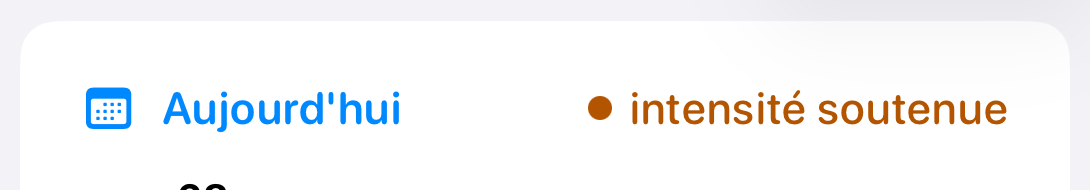
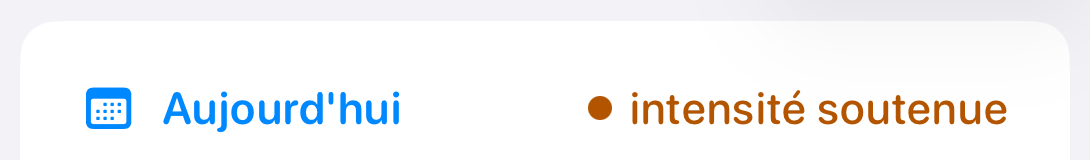
Nouveautés du cycle 3 (avant / après) et recette
Claude-Session: https://claude.ai/code/session_01EFvPKjPeTBs4MFfCE2jzQT

Changed region(s): [[0.5303, 0.4688, 0.9358, 0.7812], [0.0624, 0.4375, 0.3743, 0.8125], [0.156, 0.9688, 0.2183, 1.0]]

diff --git a/Design/Nouveautes/index.html b/Design/Nouveautes/index.html
@@ -27,6 +27,7 @@ p { margin: 0; }
 .where { color: var(--dim); font-size: 15px; }
 .pair { display: grid; grid-template-columns: 1fr 1fr; gap: 16px; }
 @media (max-width: 560px) { .pair { grid-template-columns: 1fr; } }
+.pair.single { grid-template-columns: minmax(0, 360px); }
 figure { margin: 0; display: grid; gap: 8px; min-width: 0; }
 figcaption { font-size: 13px; font-weight: 600; letter-spacing: .04em; text-transform: uppercase; color: var(--before); }
 .after figcaption { color: var(--after); }
@@ -51,6 +52,138 @@ textarea { width: 100%; box-sizing: border-box; min-height: 44px; resize: vertic
     <p class="lead">Ce qui change à l'écran, version après version : un extrait avant, un extrait après. Dis pour chaque changement s'il te va ; ton avis est enregistré et je le lis.</p>
     <p class="status" id="status" aria-live="polite">Chargement de tes avis…</p>
   </header>
+
+  <section class="version" aria-labelledby="v-2026-11-01c">
+    <div style="display:grid;gap:4px">
+      <h2 id="v-2026-11-01c">Cycle 3 : pendant et après l'effort</h2>
+      <p>Les écrans de série, de repos et de fin de séance, et tes 7 « À revoir » corrigés.</p>
+    </div>
+      <article class="change">
+        <header><p class="where">Pendant la série</p><h3>Le tunnel : un anneau de 10 par dizaine, la cible entière visible ; le nombre et « sur 23 » en grand ; « Série 2 sur 3 ». Plus de chronomètre ni de rangée des séries.</h3></header>
+        <div class="pair single">
+          <figure class="after"><figcaption>Nouveau</figcaption><img src="2026-11-01c/18-serie-apres.png" alt="Pendant la série : Le tunnel : un anneau de 10 par dizaine, la cible entière visible ; le nombre et « sur 23 » en grand ; « Série 2 sur 3 ». Plus de chronomètre ni de rangée des séries." loading="lazy"></figure>
+        </div>
+        <div class="avis" data-id="2026-11-01c-18-serie">
+          <div class="choices" role="group" aria-label="Ton avis">
+            <button type="button" class="ok" aria-pressed="false">Ça me va</button>
+            <button type="button" class="ko" aria-pressed="false">À revoir</button>
+          </div>
+          <label class="note">Ton commentaire (facultatif)
+            <textarea rows="2" id="note-2026-11-01c-18-serie"></textarea>
+          </label>
+        </div>
+      </article>
+      <article class="change">
+        <header><p class="where">Pendant le repos</p><h3>Un compte à rebours : les segments s'éteignent, « Prêt » en vert à zéro ; la série suivante et sa cible en grand.</h3></header>
+        <div class="pair single">
+          <figure class="after"><figcaption>Nouveau</figcaption><img src="2026-11-01c/19-repos-apres.png" alt="Pendant le repos : Un compte à rebours : les segments s'éteignent, « Prêt » en vert à zéro ; la série suivante et sa cible en grand." loading="lazy"></figure>
+        </div>
+        <div class="avis" data-id="2026-11-01c-19-repos">
+          <div class="choices" role="group" aria-label="Ton avis">
+            <button type="button" class="ok" aria-pressed="false">Ça me va</button>
+            <button type="button" class="ko" aria-pressed="false">À revoir</button>
+          </div>
+          <label class="note">Ton commentaire (facultatif)
+            <textarea rows="2" id="note-2026-11-01c-19-repos"></textarea>
+          </label>
+        </div>
+      </article>
+      <article class="change">
+        <header><p class="where">Fin de séance</p><h3>Trois blocs : la cible, la suite, le coach (seulement quand une mesure le justifie) ; le reste dans « Détail de la séance » ; « Terminé ».</h3></header>
+        <div class="pair single">
+          <figure class="after"><figcaption>Nouveau</figcaption><img src="2026-11-01c/20-fin-apres.png" alt="Fin de séance : Trois blocs : la cible, la suite, le coach (seulement quand une mesure le justifie) ; le reste dans « Détail de la séance » ; « Terminé »." loading="lazy"></figure>
+        </div>
+        <div class="avis" data-id="2026-11-01c-20-fin">
+          <div class="choices" role="group" aria-label="Ton avis">
+            <button type="button" class="ok" aria-pressed="false">Ça me va</button>
+            <button type="button" class="ko" aria-pressed="false">À revoir</button>
+          </div>
+          <label class="note">Ton commentaire (facultatif)
+            <textarea rows="2" id="note-2026-11-01c-20-fin"></textarea>
+          </label>
+        </div>
+      </article>
+      <article class="change">
+        <header><p class="where">Coaching · Aujourd'hui</p><h3>« intensité soutenue » devient « effort normal », avec une petite jauge à 3 crans ; plus de puce.</h3></header>
+        <div class="pair">
+          <figure><figcaption>Avant</figcaption><img src="2026-11-01c/13-effort-avant.png" alt="Avant : « intensité soutenue » devient « effort normal », avec une petite jauge à 3 crans ; plus de puce." loading="lazy"></figure>
+          <figure class="after"><figcaption>Après</figcaption><img src="2026-11-01c/13-effort-apres.png" alt="Après : « intensité soutenue » devient « effort normal », avec une petite jauge à 3 crans ; plus de puce." loading="lazy"></figure>
+        </div>
+        <div class="avis" data-id="2026-11-01c-13-effort">
+          <div class="choices" role="group" aria-label="Ton avis">
+            <button type="button" class="ok" aria-pressed="false">Ça me va</button>
+            <button type="button" class="ko" aria-pressed="false">À revoir</button>
+          </div>
+          <label class="note">Ton commentaire (facultatif)
+            <textarea rows="2" id="note-2026-11-01c-13-effort"></textarea>
+          </label>
+        </div>
+      </article>
+      <article class="change">
+        <header><p class="where">Coaching · jour de test</p><h3>Plus de pictogrammes ; ce qu'il faut faire en une phrase ; le chiffre à battre en grand ; « En savoir plus » explique le test.</h3></header>
+        <div class="pair">
+          <figure><figcaption>Avant</figcaption><img src="2026-11-01c/14-jour-de-test-avant.png" alt="Avant : Plus de pictogrammes ; ce qu'il faut faire en une phrase ; le chiffre à battre en grand ; « En savoir plus » explique le test." loading="lazy"></figure>
+          <figure class="after"><figcaption>Après</figcaption><img src="2026-11-01c/14-jour-de-test-apres.png" alt="Après : Plus de pictogrammes ; ce qu'il faut faire en une phrase ; le chiffre à battre en grand ; « En savoir plus » explique le test." loading="lazy"></figure>
+        </div>
+        <div class="avis" data-id="2026-11-01c-14-jour-de-test">
+          <div class="choices" role="group" aria-label="Ton avis">
+            <button type="button" class="ok" aria-pressed="false">Ça me va</button>
+            <button type="button" class="ko" aria-pressed="false">À revoir</button>
+          </div>
+          <label class="note">Ton commentaire (facultatif)
+            <textarea rows="2" id="note-2026-11-01c-14-jour-de-test"></textarea>
+          </label>
+        </div>
+      </article>
+      <article class="change">
+        <header><p class="where">Historique · 12 semaines</p><h3>Plus d'étoiles sur la courbe ; ton record de toujours est écrit au-dessus ; « reps par semaine ».</h3></header>
+        <div class="pair">
+          <figure><figcaption>Avant</figcaption><img src="2026-11-01c/15-record-avant.png" alt="Avant : Plus d'étoiles sur la courbe ; ton record de toujours est écrit au-dessus ; « reps par semaine »." loading="lazy"></figure>
+          <figure class="after"><figcaption>Après</figcaption><img src="2026-11-01c/15-record-apres.png" alt="Après : Plus d'étoiles sur la courbe ; ton record de toujours est écrit au-dessus ; « reps par semaine »." loading="lazy"></figure>
+        </div>
+        <div class="avis" data-id="2026-11-01c-15-record">
+          <div class="choices" role="group" aria-label="Ton avis">
+            <button type="button" class="ok" aria-pressed="false">Ça me va</button>
+            <button type="button" class="ko" aria-pressed="false">À revoir</button>
+          </div>
+          <label class="note">Ton commentaire (facultatif)
+            <textarea rows="2" id="note-2026-11-01c-15-record"></textarea>
+          </label>
+        </div>
+      </article>
+      <article class="change">
+        <header><p class="where">Historique · Journal</p><h3>« total » devient « reps » : c'est le nombre de répétitions du jour.</h3></header>
+        <div class="pair">
+          <figure><figcaption>Avant</figcaption><img src="2026-11-01c/16-journal-avant.png" alt="Avant : « total » devient « reps » : c'est le nombre de répétitions du jour." loading="lazy"></figure>
+          <figure class="after"><figcaption>Après</figcaption><img src="2026-11-01c/16-journal-apres.png" alt="Après : « total » devient « reps » : c'est le nombre de répétitions du jour." loading="lazy"></figure>
+        </div>
+        <div class="avis" data-id="2026-11-01c-16-journal">
+          <div class="choices" role="group" aria-label="Ton avis">
+            <button type="button" class="ok" aria-pressed="false">Ça me va</button>
+            <button type="button" class="ko" aria-pressed="false">À revoir</button>
+          </div>
+          <label class="note">Ton commentaire (facultatif)
+            <textarea rows="2" id="note-2026-11-01c-16-journal"></textarea>
+          </label>
+        </div>
+      </article>
+      <article class="change">
+        <header><p class="where">Cadran</p><h3>Plus de « caméra » ni de point seul sous la question de fatigue.</h3></header>
+        <div class="pair">
+          <figure><figcaption>Avant</figcaption><img src="2026-11-01c/17-fatigue-avant.png" alt="Avant : Plus de « caméra » ni de point seul sous la question de fatigue." loading="lazy"></figure>
+          <figure class="after"><figcaption>Après</figcaption><img src="2026-11-01c/17-fatigue-apres.png" alt="Après : Plus de « caméra » ni de point seul sous la question de fatigue." loading="lazy"></figure>
+        </div>
+        <div class="avis" data-id="2026-11-01c-17-fatigue">
+          <div class="choices" role="group" aria-label="Ton avis">
+            <button type="button" class="ok" aria-pressed="false">Ça me va</button>
+            <button type="button" class="ko" aria-pressed="false">À revoir</button>
+          </div>
+          <label class="note">Ton commentaire (facultatif)
+            <textarea rows="2" id="note-2026-11-01c-17-fatigue"></textarea>
+          </label>
+        </div>
+      </article>
+  </section>
 
   <section class="version" aria-labelledby="v-2026-11-01b">
     <div style="display:grid;gap:4px">

diff --git a/Process/RECETTE-CYCLE-3.md b/Process/RECETTE-CYCLE-3.md
@@ -1,0 +1,25 @@
+# Recette du cycle 3
+
+**Cycle** : 3, à chaud comme un coach   **CI** : verte
+
+## Ce qui a changé
+- Pendant la série, le tunnel : un anneau de 10 par dizaine, la cible entière visible.
+- Pendant le repos, un compte à rebours ; en fin de séance, trois blocs (cible, la suite, le coach).
+- Tes 7 « À revoir » des Nouveautés corrigés.
+
+## À vérifier sur l'iPhone (ce que les captures ne montrent pas : le mouvement)
+- [ ] Une série de pompes : à chaque répétition, un segment s'allume ; à 10, l'anneau passe derrière toi et le suivant vient devant.
+- [ ] À la cible, le cadran passe au vert ; les répétitions en plus ajoutent un anneau vert.
+- [ ] Fin de série : le compte à rebours démarre, les segments s'éteignent ; à zéro, « Prêt » en vert.
+- [ ] Pendant le repos : « Ensuite : série 2 sur 3 » et la cible en grand ; si ta série était sous sa cible, la phrase qui dit pourquoi la cible a baissé.
+- [ ] Fin de séance : « Cible atteinte ✓ » ou « Cible non atteinte », la prochaine séance, et « Le coach » seulement si tu as écourté un repos avant une série manquée (ou battu ton max).
+- [ ] « Détail de la séance » : le total, et une touche sur une barre corrige le compte d'une série.
+- [ ] Un jour de test : le chiffre à battre en grand, « En savoir plus » s'ouvre sur l'explication du test.
+
+## Décisions prises en route
+- Tunnel de comptage (ton idée), compte à rebours, fin de séance en trois blocs.
+- Conseils du coach : 2 règles seulement (`Science/CONSEILS.md`).
+- Colonne du journal : « reps » plutôt que « tous ».
+
+## Hors cycle
+- Les cas limites du test (2e tentative, échauffement) gardent l'ancien affichage : cycle 4.

diff --git a/Process/NOUVEAUTES.md b/Process/NOUVEAUTES.md
@@ -14,6 +14,19 @@ les lit au début de chaque cycle et à chaque livraison ; un « À revoir » es
 Les captures complètes de chaque version sont archivées par la CI sur la branche `ci-captures`
 (un dossier par version : date et commit ; `latest/` pour la dernière).
 
+## 01/11 (nuit) : cycle 3, pendant et après l'effort
+
+| # | Écran | Ce qui change | Extraits |
+|---|---|---|---|
+| 18 | Série | Tunnel de comptage (un anneau de 10 par dizaine, cible entière visible), « sur 23 », « Série 2 sur 3 » ; plus de chronomètre ni de rangée des séries | `2026-11-01c/18-serie` (nouveau) |
+| 19 | Repos | Compte à rebours, « Prêt » à zéro ; série suivante et sa cible en grand | `2026-11-01c/19-repos` (nouveau) |
+| 20 | Fin de séance | Trois blocs (cible, la suite, le coach) ; détail à part ; « Terminé » | `2026-11-01c/20-fin` (nouveau) |
+| 13 | Coaching, Aujourd'hui | « effort normal » et jauge à 3 crans ; plus de puce | `2026-11-01c/13-effort` |
+| 14 | Coaching, jour de test | Sans pictogrammes ; chiffre à battre en grand ; « En savoir plus » | `2026-11-01c/14-jour-de-test` |
+| 15 | Historique, 12 semaines | Plus d'étoiles ; « record : N » de toujours ; « reps par semaine » | `2026-11-01c/15-record` |
+| 16 | Historique, Journal | « total » devient « reps » | `2026-11-01c/16-journal` |
+| 17 | Cadran | Plus de « caméra » ni de point seul sous la fatigue | `2026-11-01c/17-fatigue` |
+
 ## 01/11 (soir) : corrections de la recette du cycle 2
 
 | # | Écran | Ce qui change | Extraits |
